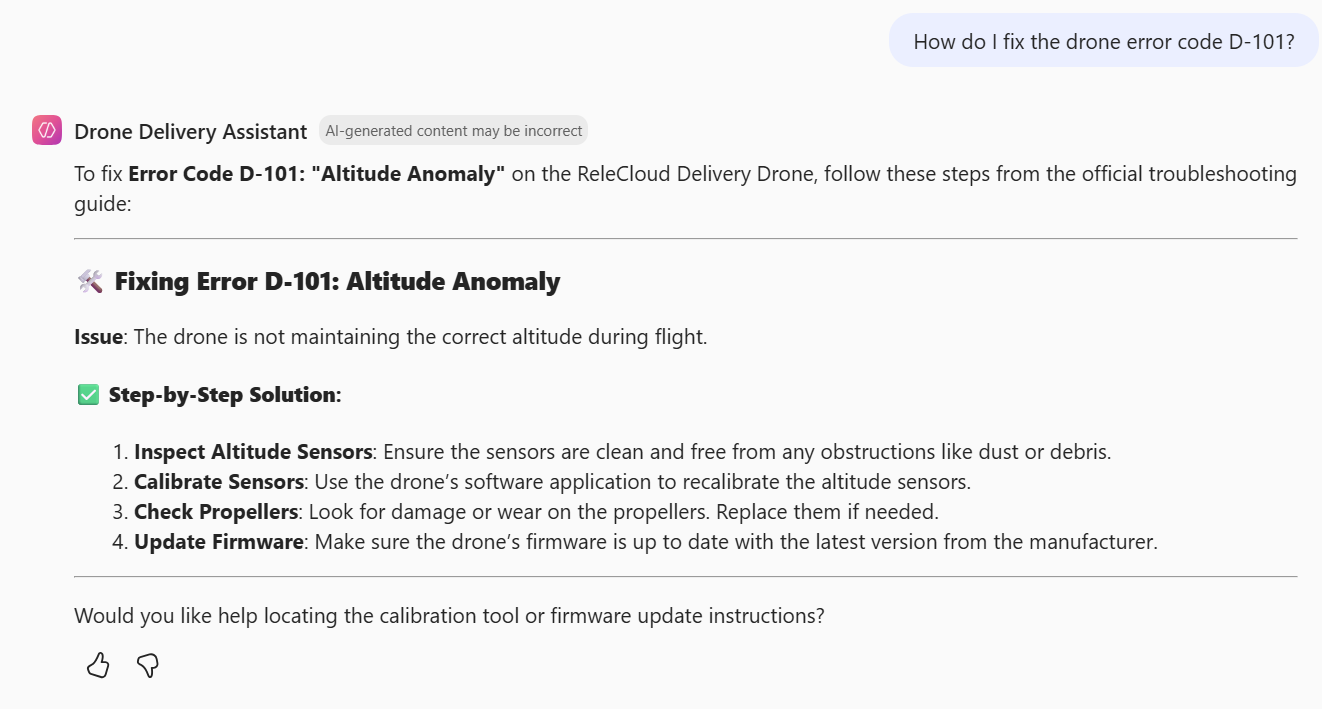
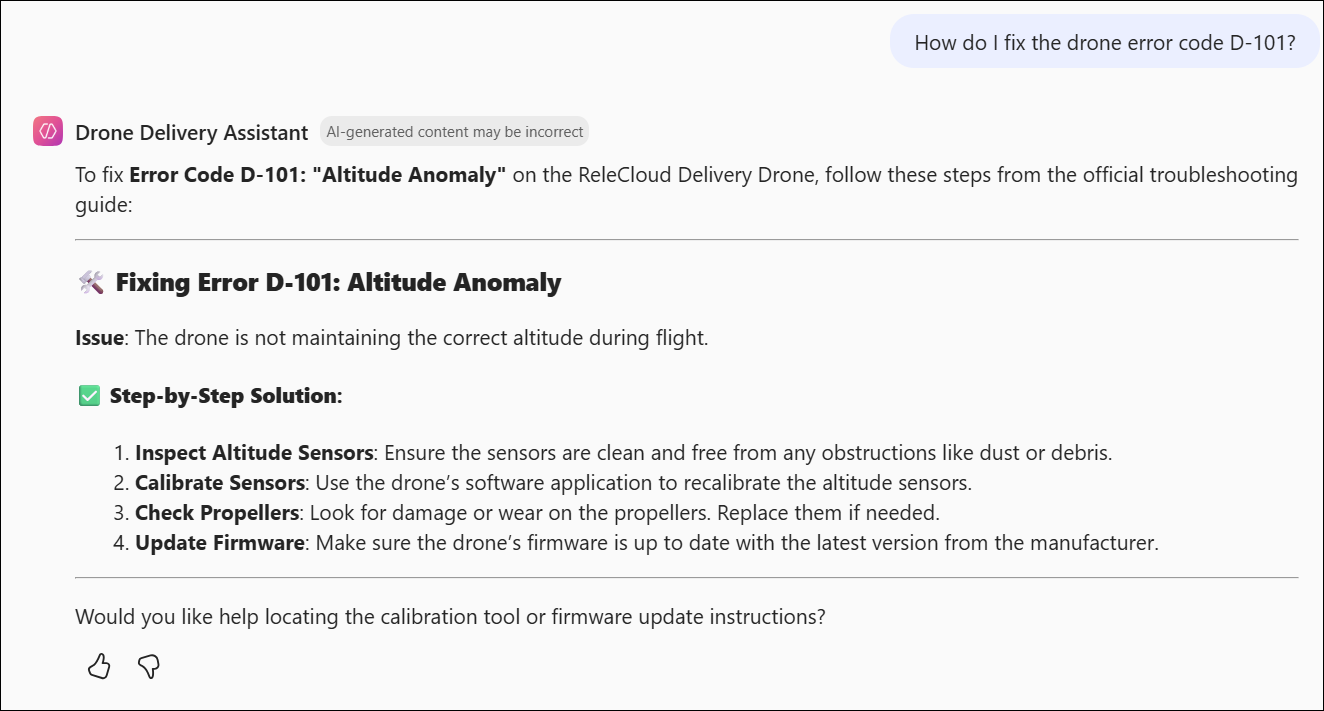
update

diff --git a/Instructions/Getting-started-page/Module02.md b/Instructions/Getting-started-page/Module02.md
@@ -2,7 +2,7 @@
 
 Welcome to your MS-4021 : Copilot for Departmental Excellence workshop! We’re excited to guide you through hands-on learning with Microsoft 365 Copilot across Word, Excel, Outlook, PowerPoint, and Copilot Chat. In this lab, you’ll experience how Copilot streamlines everyday workflows, analyzing data, drafting professional documents, managing emails, and building presentations with ease. You’ll see how Copilot connects insights, communication, and creativity across Microsoft 365, empowering you to work faster, think clearer, and make smarter business decisions.
 
-### Overall Estimated Duration:  2.5 Hours
+### Overall Estimated Duration:  2.75 Hours
 
 ## Lab Overview
 

diff --git a/Instructions/Getting-started-page/Module04.md b/Instructions/Getting-started-page/Module04.md
@@ -2,7 +2,7 @@
 
 Welcome to your MS-4021: Copilot for Financial and Analytical Insights workshop! We’re excited to guide you through hands-on learning with Microsoft 365 Copilot across Word, Excel, Copilot Chat, and built-in agents like Researcher and Analyst. In this lab, you’ll experience how Copilot can analyze financial data, generate insights, build marketing strategies, and uncover customer trends, empowering you to turn complex business challenges into informed, actionable decisions.
 
-### Overall Estimated Duration: 60 Minutes
+### Overall Estimated Duration: 75 Minutes
 
 ## Lab Overview
 

diff --git a/Instructions/Getting-started-page/Module01.md b/Instructions/Getting-started-page/Module01.md
@@ -2,7 +2,7 @@
 
 Welcome to your MS-4021: Strategic Leadership with Microsoft Copilot workshop! In this lab, you’ll experience how Microsoft 365 Copilot works across Word, Excel, Outlook, and Copilot Chat to simplify real-world business tasks. You’ll analyze financial and sales data, summarize key insights, research industry trends, and organize executive meetings, seeing firsthand how Copilot transforms everyday workflows into efficient, insight-driven actions.
 
-### Overall Estimated Duration: 60 Minutes
+### Overall Estimated Duration: 75 Minutes
 
 ## Lab Overview
 

diff --git a/Instructions/Getting-started-page/Module06.md b/Instructions/Getting-started-page/Module06.md
@@ -2,7 +2,7 @@
 
 Welcome to your MS-4021: M365 Copilot Interactive Experience for Executives workshop! We’re excited to guide you through hands-on learning with Microsoft 365 Copilot across Word, PowerPoint, Outlook, Teams and Copilot agent. In this lab, you’ll experience how Copilot can research ideas, generate business plans, create presentations, and streamline communication to bring a new business concept to life.
 
-## Overall Estimated Duration: 90 Minutes
+## Overall Estimated Duration: 105 Minutes
 
 ## Lab Overview
 

diff --git a/Instructions/Getting-started-page/Module03.md b/Instructions/Getting-started-page/Module03.md
@@ -2,7 +2,7 @@
 
 Welcome to your MS-4021: Copilot for IT and Compliance Teams workshop! In this lab, you’ll see how Copilot can streamline technical project management in an enterprise environment. You’ll work across Copilot Chat, Word, and PowerPoint to design and document the deployment of a new network security product.
 
-### Overall Estimated Duration: 60 Minutes
+### Overall Estimated Duration: 75 Minutes
 
 ## Lab Overview
 

diff --git a/Instructions/Demos/Lab-03: Create a presentation using Microsoft 365 Copilot in PowerPoint.md b/Instructions/Demos/Lab-03: Create a presentation using Microsoft 365 Copilot in PowerPoint.md
@@ -1,6 +1,6 @@
 # Lab 03: Create a presentation using Microsoft 365 Copilot in PowerPoint
 
-### Estimated Duration: 30 Minutes
+### Estimated Duration: 35 Minutes
 
 ## Overview
 

diff --git a/Instructions/Demos/Lab-02: Develop a concept using Microsoft 365 Copilot in Word.md b/Instructions/Demos/Lab-02: Develop a concept using Microsoft 365 Copilot in Word.md
@@ -1,6 +1,6 @@
 # Lab 02: Develop a concept using Microsoft 365 Copilot in Word
 
-### Estimated Duration: 30 Minutes
+### Estimated Duration: 35 Minutes
 
 ## Overview
 

diff --git a/Instructions/Demos/Lab-01: Brainstorm ideas using Microsoft 365 Copilot Chat.md b/Instructions/Demos/Lab-01: Brainstorm ideas using Microsoft 365 Copilot Chat.md
@@ -1,6 +1,6 @@
 # Lab 01: Brainstorm ideas using Microsoft 365 Copilot Chat
 
-### Estimated Duration: 30 Minutes
+### Estimated Duration: 35 Minutes
 
 ## Overview
 

diff --git a/Instructions/Demos/12-Researcher-Analyst-Demo.md b/Instructions/Demos/12-Researcher-Analyst-Demo.md
@@ -1,6 +1,6 @@
 # Lab 02: Researcher and Analyst Demo
 
-### Estimated Duration: 30 Minutes
+### Estimated Duration: 40 Minutes
 
 ## Overview
 

diff --git a/Instructions/Demos/6-Executive-Assistant-Demo.md b/Instructions/Demos/6-Executive-Assistant-Demo.md
@@ -1,6 +1,6 @@
 # Lab 01: Executive Assistant Demo
 
-### Estimated Duration: 30 Minutes
+### Estimated Duration: 35 Minutes
 
 ## Overview
 

diff --git a/Instructions/Demos/7-Business-Manager-Demo.md b/Instructions/Demos/7-Business-Manager-Demo.md
@@ -1,6 +1,6 @@
 # Lab 02: Business Manager Demo
 
-### Estimated Duration: 30 Minutes
+### Estimated Duration: 40 Minutes
 
 ## Overview
 

diff --git a/Instructions/Demos/9-Operations-Demo.md b/Instructions/Demos/9-Operations-Demo.md
@@ -1,6 +1,6 @@
 # Lab 05: Operations Demo 
 
-### Estimated Duration: 30 Minutes
+### Estimated Duration: 35 Minutes
 
 ## Overview
 
